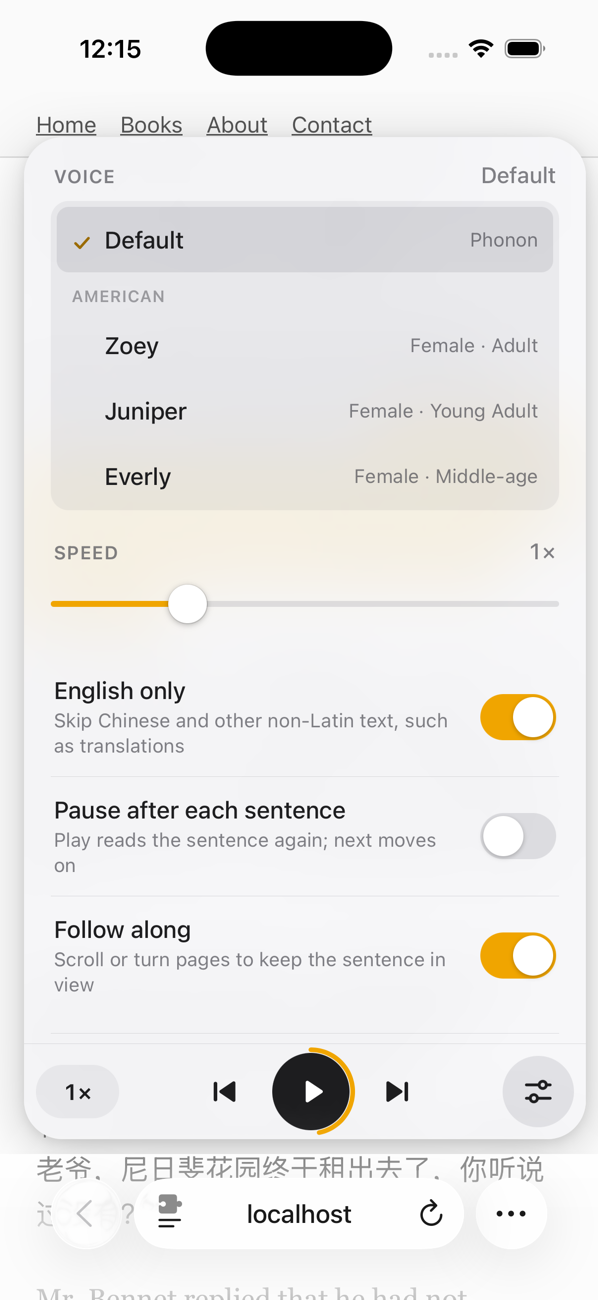
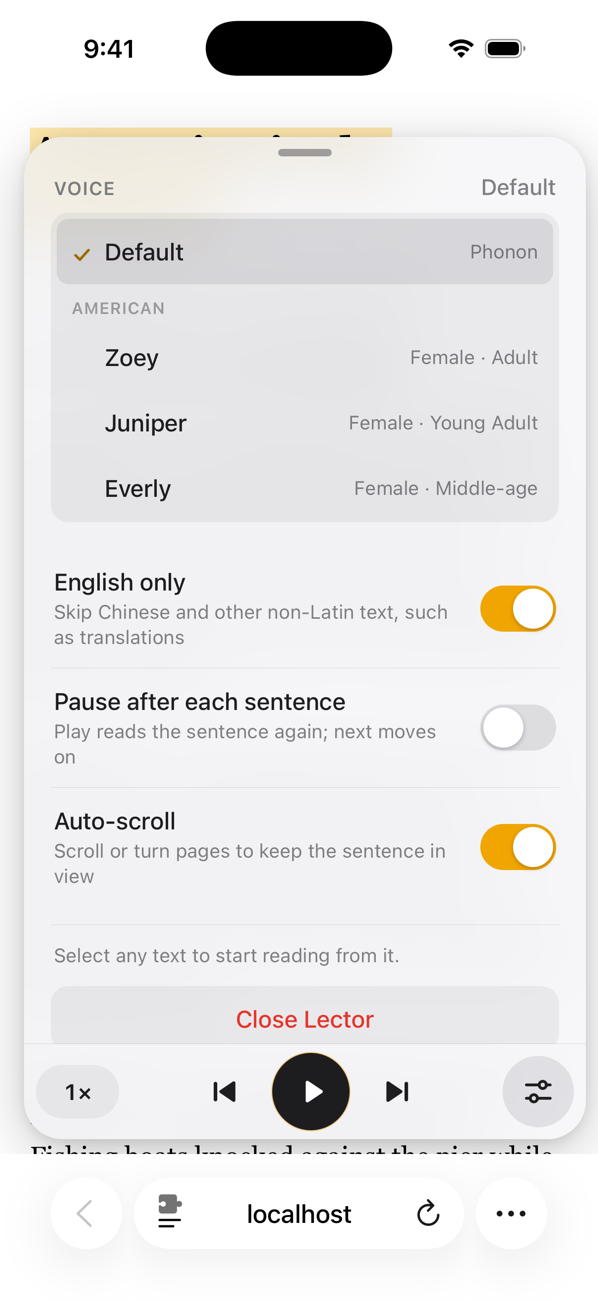
feat: rename Follow along to Auto-scroll
Also brings the README up to date: speed is no longer in the settings card, either card can be pulled down on iPhone, and the settings screenshot shows the current card.

diff --git a/src/player/player.html b/src/player/player.html
@@ -47,7 +47,7 @@
             </label>
             <label class="toggle">
               <span class="text">
-                <span class="title">Follow along</span>
+                <span class="title">Auto-scroll</span>
                 <span class="sub">Scroll or turn pages to keep the sentence in view</span>
               </span>
               <input type="checkbox" id="opt-follow" role="switch" />

diff --git a/README.md b/README.md
@@ -80,7 +80,7 @@ After you click a control in the player, <kbd>Space</kbd>, <kbd>↑</kbd> and <k
 
 ### Settings
 
-Tap the sliders button for voice, speed, **English only**, **Pause after each sentence**, and **Follow along**. Tap the speed button for quick presets. Settings are shared by every site.
+Tap the sliders button for voice, **English only**, **Pause after each sentence**, and **Auto-scroll**. Tap the speed button for presets and a slider. On iPhone, pull either card down to put it away. Settings are shared by every site.
 
 ## How it works
 
